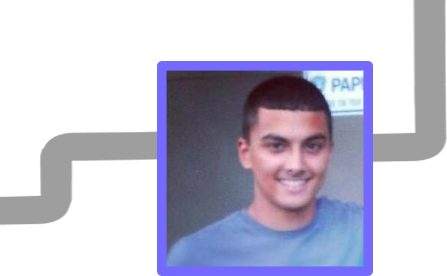
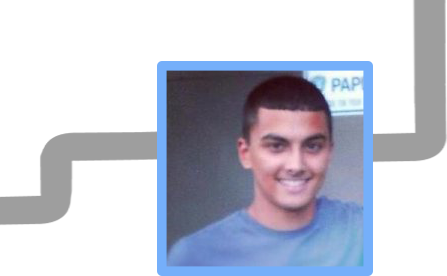
Fix custom font issue, change color scheme, update images

Changed region(s): [[0.349, 0.2029, 0.8434, 1.0]]

diff --git a/app/assets/stylesheets/custom.css.scss b/app/assets/stylesheets/custom.css.scss
@@ -2,12 +2,12 @@
 
 @font-face {
     font-family: 'Vegur-Light';
-    src: url(font-path('/assets/Vegur-Light.otf')) format('opentype')
+    src: url('/assets/Vegur-Light.otf') format('opentype');
 }
 
 @font-face {
     font-family: 'Vegur-Regular';
-    src: url(font-path('/assets/Vegur-Regular.otf')) format('opentype')
+    src: url('/assets/Vegur-Regular.otf') format('opentype');
 }
 
 /* Universal */
@@ -18,17 +18,17 @@ html {
 }
 
 body {
-	font-family: Vegur-Light;
-	color: #756AFF;
+	font-family: Vegur-Regular, sans-serif;
+	color: #75AFFA;
 	margin: 0 0 50px; /* 200px = footer height */
 	overflow-x: hidden;
 }
 
 a {
-	color: #756AFF;
+	color: #75AFFA;
 	text-decoration: none;
 	&:hover {
-		color: #756AFF;
+		color: #75AFFA;
 		text-decoration: underline;
 	}
 }
@@ -36,6 +36,10 @@ a {
 p {
 	font-size: 1.2em;
 	color: #474747;
+}
+
+h1, h2 {
+	font-family: Vegur-Light !important;
 }
 
 .center {
@@ -47,7 +51,7 @@ p {
 	width: 105%;
 	line-height: 50%;
 	margin-left: -5%;
-	background-color: #756AFF;
+	background-color: #75AFFA;
 	top: 0;
 	position: absolute;
 	z-index: 1;
@@ -55,6 +59,7 @@ p {
 
 .dylan {
 	display: inline-block;
+	font-family: Vegur-Light !important;
 	.pipes_and_pic {
 		width: 75%;
 		margin-left: -9px;
@@ -77,7 +82,7 @@ footer {
     bottom: 0;
     height: 50px;
     width: 100%;
-    background-color: #ABA9FF;
+    background-color: #AACDFA;
     color: #474747;
     text-align: center;
     a {
@@ -130,12 +135,29 @@ footer {
 	z-index: -1;
 }
 
+.launch-stage {
+	position: absolute;
+	right: 8%;
+	top: 28%;
+}
+
+.square-logo {
+	width: 50px;
+}
+
 /* Startup Pages */
+
+.left-push {
+	display: inline-block;
+	width: 470px;
+	height: 100px;
+}
 
 .container {
 	position: relative;
+	display: inline-block;
 	width: 58%;
-	background-color: #E3E3FF;
+	background-color: #DCEAFC;
 	border-radius: 10px;
 	margin-left: auto;
 	margin-right: auto;

diff --git a/app/controllers/startups_controller.rb b/app/controllers/startups_controller.rb
@@ -11,6 +11,14 @@ class StartupsController < ApplicationController
   	@startup = Startup.find(params[:id])
   end
 
+  def index
+    @idea_stage = Startup.where(stage: 'idea')
+    @research_stage = Startup.where(stage: 'research')
+    @financing_stage = Startup.where(stage: 'financing')
+    @development_stage = Startup.where(stage: 'development')
+    @launch_stage =  Startup.where(stage: 'launch')
+  end
+
   private
 
     def startup_params

diff --git a/app/controllers/home_controller.rb b/app/controllers/home_controller.rb
@@ -1,4 +1,9 @@
 class HomeController < ApplicationController
-  def home	
+  def home
+  	@idea_stage = Startup.where(stage: 'idea')
+  	@research_stage = Startup.where(stage: 'research')
+  	@financing_stage = Startup.where(stage: 'financing')
+  	@development_stage = Startup.where(stage: 'development')
+  	@launch_stage =  Startup.where(stage: 'launch')
   end
 end

diff --git a/config/routes.rb b/config/routes.rb
@@ -1,6 +1,6 @@
 DylanHustedCom::Application.routes.draw do
   root 'home#home'
-  resources :startups, only: [:show]
+  resources :startups, only: [:show, :index]
 
 
   # The priority is based upon order of creation: first created -> highest priority.
